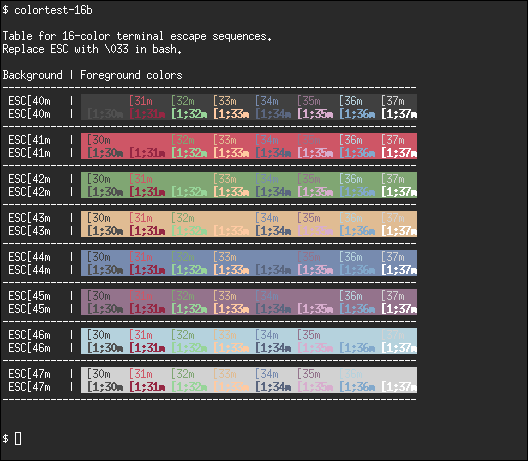
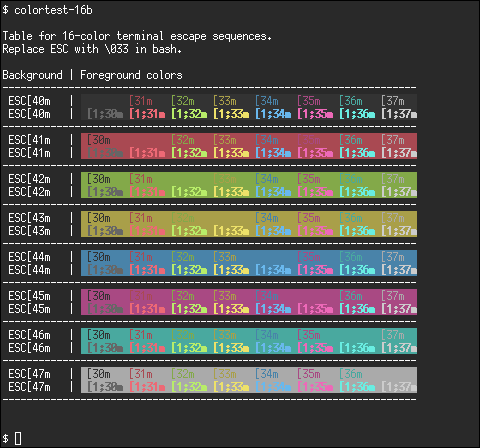
modify an entry

diff --git a/_posts/2014-09-25-change-xterm-color-schema.md b/_posts/2014-09-25-change-xterm-color-schema.md
@@ -15,22 +15,22 @@ debianであればaptから`colortest`パッケージでインストールでき
 ~~~~
 *background: #292929
 *foreground: #ffffff
-*color0: #404040
-*color1: #CE5666
-*color2: #80A673
-*color3: #E0BC93
-*color4: #778BAF
-*color5: #94738C
-*color6: #B5D2DD
-*color7: #d2d2d2
-*color8: #505050
-*color9: #952743
-*color10: #97D599
-*color11: #FFCAA2
-*color12: #5A667F
-*color13: #D8ADCE
-*color14: #82A9CC
-*color15: #ffffff
+*color0: #333333
+*color1: #A94952
+*color2: #83A949
+*color3: #A99F49
+*color4: #4983A9
+*color5: #A94983
+*color6: #49A99F
+*color7: #AAAAAA
+*color8: #666666
+*color9: #ED6975
+*color10: #B8ED69
+*color11: #EDE169
+*color12: #69B8ED
+*color13: #ED69B8
+*color14: #69EDE1
+*color15: #CCCCCC
 ~~~~
 
 ![colortest-16b]({{ site.url }}/assets/2014_09_25_colortest.png)
